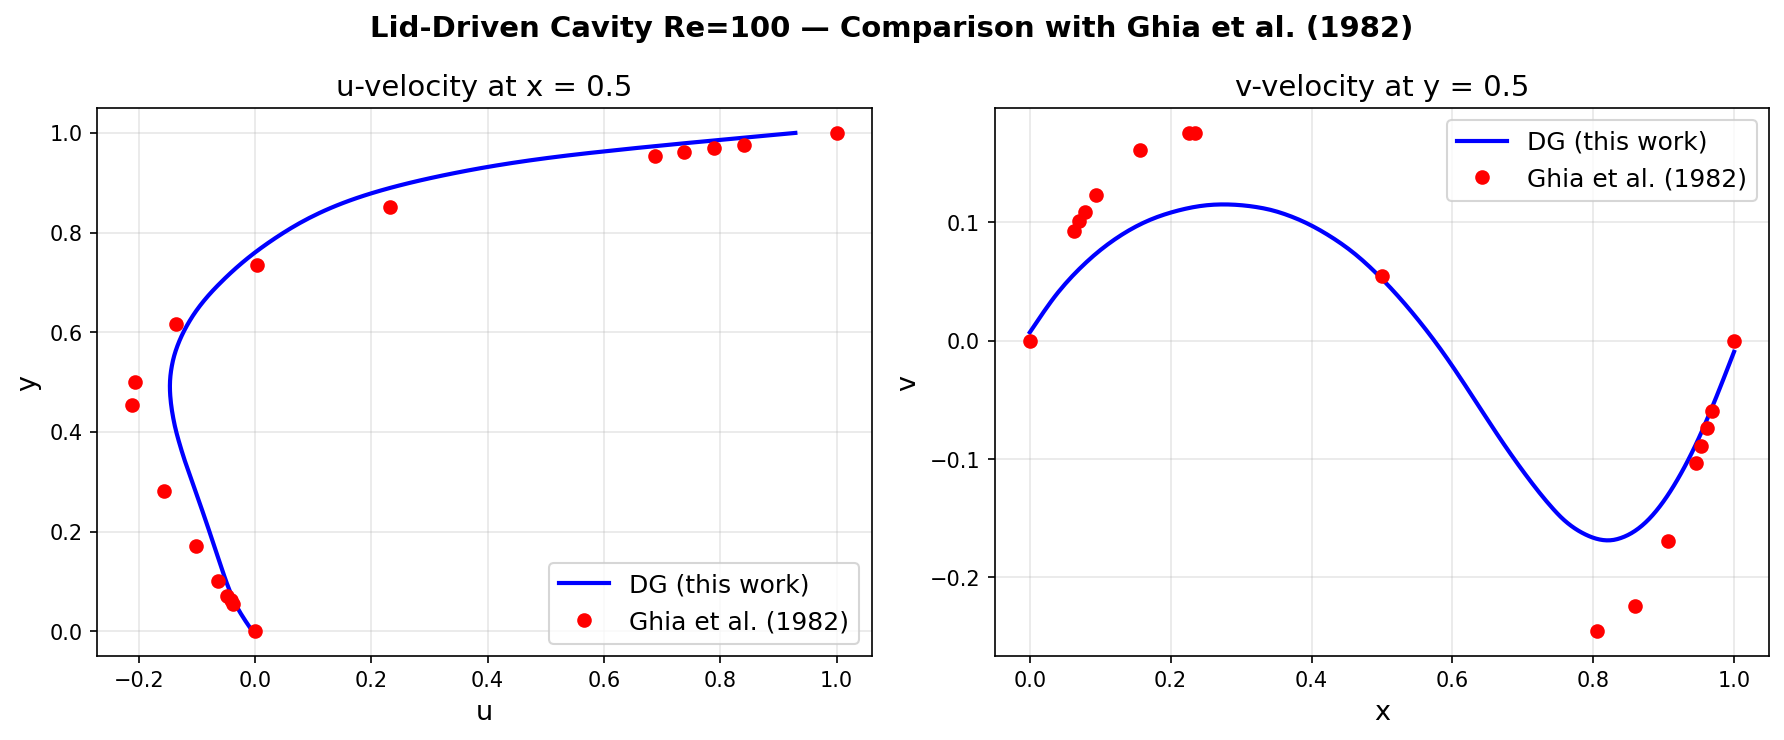
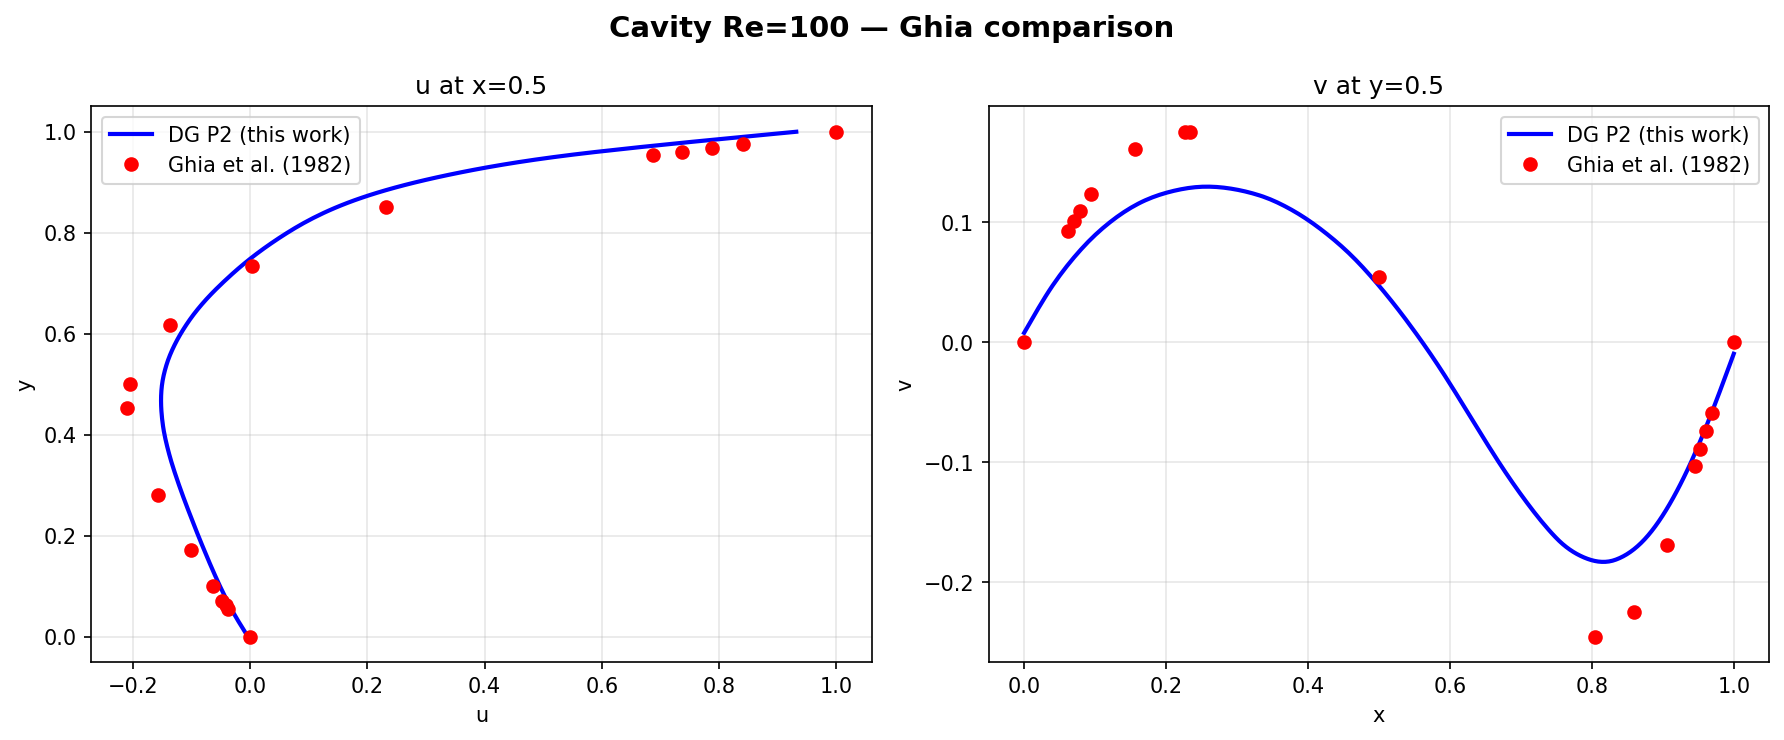
Fused Numba cavity solver: 5.7x speedup
- Single _cavity_rhs kernel: convective + viscous in one prange loop
- Eliminates all Python overhead: no lambdas, no face extraction fn, no BC fn
- 2906 steps/sec (was 513), 488k steps in 168s (was 952s)
- cavity_solver.py: standalone module for lid-driven cavity

diff --git a/src/dg/cavity_solver.py b/src/dg/cavity_solver.py
@@ -1,0 +1,358 @@
+"""
+Fused DG solver for lid-driven cavity with artificial compressibility.
+
+Single Numba kernel computes full RHS (convective + viscous) in one pass,
+eliminating Python call overhead from lambdas, face extraction, and BC functions.
+
+For 288 elements P2: targets <100µs/step (vs 530µs with component approach).
+"""
+
+import numpy as np
+from numba import njit, prange
+import time
+
+
+@njit(cache=True)
+def _ac_max_wavespeed(q, beta, K, Np):
+    """Global max wavespeed for CFL."""
+    b2 = beta * beta
+    wmax = 0.0
+    for k in range(K):
+        for i in range(Np):
+            u = q[k, i, 0]
+            v = q[k, i, 1]
+            s2 = u * u + v * v
+            w = np.sqrt(s2) + np.sqrt(s2 + b2)
+            if w > wmax:
+                wmax = w
+    return wmax
+
+
+@njit(cache=True, parallel=True)
+def _cavity_rhs(q, Dr, Ds, rx, ry, sx, sy, LIFT, Fmask_flat,
+                nx_f, ny_f, Fscale, vmapP_k, vmapP_n,
+                bc_per_node, face_x, beta, nu, sigma_ip, lid_vel,
+                K, Np, Nfp, n_fp):
+    """
+    Fused convective + viscous RHS for AC lid-driven cavity.
+
+    Computes in one parallel loop per element:
+    1. Physical fluxes F(q), G(q)
+    2. Face extraction with BC ghost values
+    3. Rusanov numerical flux
+    4. Volume divergence + LIFT surface correction (convective)
+    5. SIPG viscous operator for u,v components
+    """
+    rhs = np.empty((K, Np, 3), dtype=np.float64)
+    b2 = beta * beta
+
+    for k in prange(K):
+        rx_k = rx[k, 0]
+        ry_k = ry[k, 0]
+        sx_k = sx[k, 0]
+        sy_k = sy[k, 0]
+
+        # ---- Physical fluxes at volume nodes ----
+        Fx = np.empty((Np, 3), dtype=np.float64)
+        Fy = np.empty((Np, 3), dtype=np.float64)
+        for i in range(Np):
+            u = q[k, i, 0]
+            v = q[k, i, 1]
+            p = q[k, i, 2]
+            Fx[i, 0] = u * u + p
+            Fx[i, 1] = u * v
+            Fx[i, 2] = b2 * u
+            Fy[i, 0] = u * v
+            Fy[i, 1] = v * v + p
+            Fy[i, 2] = b2 * v
+
+        # ---- Face extraction + BCs + Rusanov flux ----
+        f_num = np.empty((n_fp, 3), dtype=np.float64)
+        # Also store face values for viscous operator
+        u_face_int = np.empty((n_fp, 2), dtype=np.float64)
+        u_face_ext = np.empty((n_fp, 2), dtype=np.float64)
+
+        for fpt in range(n_fp):
+            vol_idx = Fmask_flat[fpt]
+            nx_ki = nx_f[k, fpt]
+            ny_ki = ny_f[k, fpt]
+
+            # Interior values
+            ui = q[k, vol_idx, 0]
+            vi = q[k, vol_idx, 1]
+            pi = q[k, vol_idx, 2]
+
+            # Exterior values (neighbor or ghost)
+            bc = bc_per_node[k, fpt]
+            if bc == 0:
+                pk = vmapP_k[k, fpt]
+                pn = vmapP_n[k, fpt]
+                ue = q[pk, pn, 0]
+                ve = q[pk, pn, 1]
+                pe = q[pk, pn, 2]
+            elif bc == 1:
+                # Wall: no-slip
+                ue = -ui
+                ve = -vi
+                pe = pi
+            else:
+                # Lid: regularized
+                x = face_x[k, fpt]
+                u_lid = lid_vel * 16.0 * x * x * (1.0 - x) * (1.0 - x)
+                ue = 2.0 * u_lid - ui
+                ve = -vi
+                pe = pi
+
+            # Store for viscous
+            u_face_int[fpt, 0] = ui
+            u_face_int[fpt, 1] = vi
+            u_face_ext[fpt, 0] = ue
+            u_face_ext[fpt, 1] = ve
+
+            # Rusanov flux
+            Vn_i = ui * nx_ki + vi * ny_ki
+            Vn_e = ue * nx_ki + ve * ny_ki
+            lam_i = abs(Vn_i) + np.sqrt(Vn_i * Vn_i + b2)
+            lam_e = abs(Vn_e) + np.sqrt(Vn_e * Vn_e + b2)
+            lam = max(lam_i, lam_e)
+
+            fni0 = (ui * ui + pi) * nx_ki + (ui * vi) * ny_ki
+            fni1 = (ui * vi) * nx_ki + (vi * vi + pi) * ny_ki
+            fni2 = b2 * (ui * nx_ki + vi * ny_ki)
+            fne0 = (ue * ue + pe) * nx_ki + (ue * ve) * ny_ki
+            fne1 = (ue * ve) * nx_ki + (ve * ve + pe) * ny_ki
+            fne2 = b2 * (ue * nx_ki + ve * ny_ki)
+
+            f_num[fpt, 0] = 0.5 * (fni0 + fne0) - 0.5 * lam * (ue - ui)
+            f_num[fpt, 1] = 0.5 * (fni1 + fne1) - 0.5 * lam * (ve - vi)
+            f_num[fpt, 2] = 0.5 * (fni2 + fne2) - 0.5 * lam * (pe - pi)
+
+        # ---- Convective RHS: volume + surface ----
+        for v in range(3):
+            vol = np.empty(Np, dtype=np.float64)
+            for i in range(Np):
+                dfdr = 0.0
+                dfds = 0.0
+                dgdr = 0.0
+                dgds = 0.0
+                for j in range(Np):
+                    dfdr += Dr[i, j] * Fx[j, v]
+                    dfds += Ds[i, j] * Fx[j, v]
+                    dgdr += Dr[i, j] * Fy[j, v]
+                    dgds += Ds[i, j] * Fy[j, v]
+                dfdx = rx_k * dfdr + sx_k * dfds
+                dgdy = ry_k * dgdr + sy_k * dgds
+                vol[i] = -(dfdx + dgdy)
+
+            du_surf = np.empty(n_fp, dtype=np.float64)
+            for fpt in range(n_fp):
+                vol_idx = Fmask_flat[fpt]
+                f_phys_n = (Fx[vol_idx, v] * nx_f[k, fpt]
+                            + Fy[vol_idx, v] * ny_f[k, fpt])
+                du_surf[fpt] = Fscale[k, fpt] * (f_phys_n - f_num[fpt, v])
+
+            for i in range(Np):
+                val = vol[i]
+                for fpt in range(n_fp):
+                    val += LIFT[i, fpt] * du_surf[fpt]
+                rhs[k, i, v] = val
+
+        # ---- SIPG viscous RHS for u,v only ----
+        for v_idx in range(2):
+            # Volume gradient
+            ux = np.empty(Np, dtype=np.float64)
+            uy = np.empty(Np, dtype=np.float64)
+            for i in range(Np):
+                dudr = 0.0
+                duds = 0.0
+                for j in range(Np):
+                    dudr += Dr[i, j] * q[k, j, v_idx]
+                    duds += Ds[i, j] * q[k, j, v_idx]
+                ux[i] = rx_k * dudr + sx_k * duds
+                uy[i] = ry_k * dudr + sy_k * duds
+
+            # Volume Laplacian
+            vol_v = np.empty(Np, dtype=np.float64)
+            for i in range(Np):
+                d_fx_dr = 0.0
+                d_fx_ds = 0.0
+                d_fy_dr = 0.0
+                d_fy_ds = 0.0
+                for j in range(Np):
+                    d_fx_dr -= Dr[i, j] * nu * ux[j]
+                    d_fx_ds -= Ds[i, j] * nu * ux[j]
+                    d_fy_dr -= Dr[i, j] * nu * uy[j]
+                    d_fy_ds -= Ds[i, j] * nu * uy[j]
+                div_fx = rx_k * d_fx_dr + sx_k * d_fx_ds
+                div_fy = ry_k * d_fy_dr + sy_k * d_fy_ds
+                vol_v[i] = -(div_fx + div_fy)
+
+            # Surface correction — use neighbor gradient from pre-stored arrays
+            surf_v = np.empty(n_fp, dtype=np.float64)
+            for fpt in range(n_fp):
+                vol_idx = Fmask_flat[fpt]
+                grad_n_int = ux[vol_idx] * nx_f[k, fpt] + uy[vol_idx] * ny_f[k, fpt]
+
+                bc = bc_per_node[k, fpt]
+                if bc == 0:
+                    pk = vmapP_k[k, fpt]
+                    pn = vmapP_n[k, fpt]
+                    # Compute neighbor gradient at the matching node
+                    rx_e = rx[pk, 0]
+                    ry_e = ry[pk, 0]
+                    sx_e = sx[pk, 0]
+                    sy_e = sy[pk, 0]
+                    dudr_e = 0.0
+                    duds_e = 0.0
+                    for j in range(Np):
+                        dudr_e += Dr[pn, j] * q[pk, j, v_idx]
+                        duds_e += Ds[pn, j] * q[pk, j, v_idx]
+                    ux_ext = rx_e * dudr_e + sx_e * duds_e
+                    uy_ext = ry_e * dudr_e + sy_e * duds_e
+                    grad_n_ext = ux_ext * nx_f[k, fpt] + uy_ext * ny_f[k, fpt]
+                else:
+                    grad_n_ext = -grad_n_int
+
+                u_int_v = u_face_int[fpt, v_idx]
+                u_ext_v = u_face_ext[fpt, v_idx]
+                jump_u = u_int_v - u_ext_v
+                avg_grad_n = 0.5 * (grad_n_int + grad_n_ext)
+
+                surf_v[fpt] = Fscale[k, fpt] * (
+                    nu * (avg_grad_n - grad_n_int) - sigma_ip * jump_u
+                )
+
+            for i in range(Np):
+                val = vol_v[i]
+                for fpt in range(n_fp):
+                    val += LIFT[i, fpt] * surf_v[fpt]
+                rhs[k, i, v_idx] += val
+
+    return rhs
+
+
+def run_cavity(nx=12, p=2, Re=100.0, beta=1.0, cfl=0.008,
+               t_final=20.0, lid_velocity=1.0, print_every=10000):
+    """Run lid-driven cavity with fused kernel."""
+    from .reference_triangle import RefTriangle
+    from .mesh.triangle_mesh import (
+        TriangleMesh, build_face_connectivity,
+        geometric_factors, face_normals,
+    )
+
+    K = 2 * nx * nx
+    Np_val = (p + 1) * (p + 2) // 2
+    print(f"Cavity Re={Re}, β={beta}, nx={nx}, P{p}")
+    print(f"  {K} triangles, {Np_val} nodes/elem, {K*Np_val*3} DOFs")
+
+    mesh = TriangleMesh.rectangle((0, 1), (0, 1), nx, nx)
+    ref = RefTriangle(p)
+    Np = ref.Np
+    Nfp = ref.Nfp
+    n_fp = 3 * Nfp
+
+    EToE, EToF = build_face_connectivity(mesh)
+    x, y, rx, ry, sx, sy, J = geometric_factors(mesh, ref, p)
+    nx_f, ny_f, sJ, Fscale = face_normals(mesh, ref, x, y, J)
+    Fmask_flat = np.concatenate(ref.Fmask).astype(np.int64)
+    Fmask = ref.Fmask
+    Dr = np.ascontiguousarray(ref.Dr)
+    Ds = np.ascontiguousarray(ref.Ds)
+    LIFT = np.ascontiguousarray(ref.LIFT)
+
+    # Build maps
+    vmapP_k = np.zeros((K, n_fp), dtype=np.int64)
+    vmapP_n = np.zeros((K, n_fp), dtype=np.int64)
+    for k in range(K):
+        for f in range(3):
+            k2, f2 = EToE[k, f], EToF[k, f]
+            for i in range(Nfp):
+                idx = f * Nfp + i
+                if k2 == k and f2 == f:
+                    vmapP_k[k, idx] = k
+                    vmapP_n[k, idx] = Fmask[f][i]
+                else:
+                    vmapP_k[k, idx] = k2
+                    vmapP_n[k, idx] = Fmask[f2][Nfp - 1 - i]
+
+    # BC tags
+    bc_tags = np.zeros((K, 3), dtype=np.int32)
+    for k in range(K):
+        for f in range(3):
+            if EToE[k, f] == k and EToF[k, f] == f:
+                face_y = np.mean(y[k, Fmask[f]])
+                bc_tags[k, f] = 2 if face_y > 1.0 - 1e-8 else 1
+
+    bc_per_node = np.zeros((K, n_fp), dtype=np.int32)
+    for f in range(3):
+        bc_per_node[:, f * Nfp:(f + 1) * Nfp] = bc_tags[:, f:f + 1]
+
+    face_x = np.zeros((K, n_fp))
+    for i in range(n_fp):
+        face_x[:, i] = x[:, Fmask_flat[i]]
+
+    nu = 1.0 / Re
+    C_ip = 4.0
+    sigma_ip = C_ip * (p + 1) * (p + 2) * nu / 2.0
+
+    # h_min for CFL
+    h_min = np.min(2.0 * np.abs(J[:, 0]) /
+                   np.max(sJ.reshape(K, 3, Nfp), axis=2).max(axis=1))
+
+    # Initial condition
+    q = np.zeros((K, Np, 3))
+
+    # Warmup
+    _cavity_rhs(q, Dr, Ds, rx, ry, sx, sy, LIFT, Fmask_flat,
+                nx_f, ny_f, Fscale, vmapP_k, vmapP_n,
+                bc_per_node, face_x, beta, nu, sigma_ip, lid_velocity,
+                K, Np, Nfp, n_fp)
+
+    print("  Solving...", flush=True)
+    t0_wall = time.perf_counter()
+    t_sim = 0.0
+    step = 0
+    residuals = []
+
+    def rhs_func(q_in, t):
+        return _cavity_rhs(q_in, Dr, Ds, rx, ry, sx, sy, LIFT, Fmask_flat,
+                           nx_f, ny_f, Fscale, vmapP_k, vmapP_n,
+                           bc_per_node, face_x, beta, nu, sigma_ip, lid_velocity,
+                           K, Np, Nfp, n_fp)
+
+    while t_sim < t_final - 1e-14 and step < 2_000_000:
+        a_max = _ac_max_wavespeed(q, beta, K, Np) + 1e-14
+        dt = min(cfl * h_min / ((2 * p + 1) * a_max), t_final - t_sim)
+
+        # SSP-RK3 inlined to avoid function call overhead
+        rhs1 = rhs_func(q, t_sim)
+        u1 = q + dt * rhs1
+        rhs2 = rhs_func(u1, t_sim + dt)
+        u2 = 0.75 * q + 0.25 * (u1 + dt * rhs2)
+        rhs3 = rhs_func(u2, t_sim + 0.5 * dt)
+        q = (1.0 / 3.0) * q + (2.0 / 3.0) * (u2 + dt * rhs3)
+
+        t_sim += dt
+        step += 1
+
+        if step % print_every == 0:
+            res = np.max(np.abs(rhs3))
+            residuals.append((t_sim, res))
+            elapsed = time.perf_counter() - t0_wall
+            u_max = np.max(np.abs(q[:, :, 0]))
+            v_max = np.max(np.abs(q[:, :, 1]))
+            rate = step / elapsed
+            print(f"  step={step:7d}  t={t_sim:7.3f}  res={res:.4e}  "
+                  f"|u|={u_max:.4f}  |v|={v_max:.4f}  "
+                  f"wall={elapsed:.1f}s  {rate:.0f} step/s", flush=True)
+
+            if np.any(np.isnan(q)) or res > 1e6:
+                raise RuntimeError("Blowup")
+
+    elapsed = time.perf_counter() - t0_wall
+    print(f"\n  Done: {step} steps, t={t_sim:.3f}, {elapsed:.1f}s "
+          f"({step/elapsed:.0f} step/s)")
+    if residuals:
+        print(f"  Final residual: {residuals[-1][1]:.4e}")
+
+    return q, x, y, ref, J, residuals
